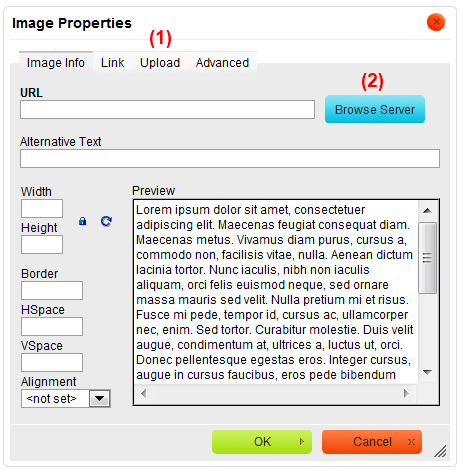
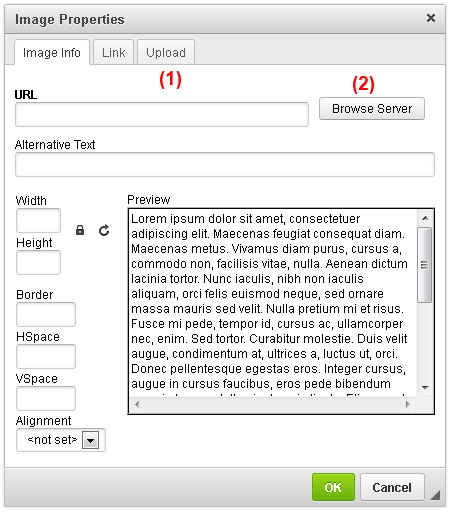
File Browser integration section corrected.
- Removed PHP API reference (CKEditor 3.x only).
- Corrected links to CKFinder docs that did not work.
- Corrected the whole article to make it more clear.
- Updated screenshots to CKEditor 4.x.

diff --git a/guides/dev/configuration/file_browse_upload/README.md b/guides/dev/configuration/file_browse_upload/README.md
@@ -1,7 +1,6 @@
-# Integrate with File Browser
+# File Browser Integration
 
-CKEditor can be easily integrated with an external file
-browser/uploader.
+CKEditor can be easily integrated with an external file browser/uploader.
 
 Once properly set up, all file browser features will automatically
 become available. This includes the **Upload** tab `(1)` in the **Link**,
@@ -12,15 +11,11 @@ become available. This includes the **Upload** tab `(1)` in the **Link**,
 
 ## Basic Configuration
 
- * The {@link CKEDITOR.config#filebrowserBrowseUrl filebrowserBrowseUrl} setting contains the location of an external file browser that should be
-launched when the **Browse Server** button is pressed.
+ * The {@link CKEDITOR.config#filebrowserBrowseUrl filebrowserBrowseUrl} setting contains the location of an external file browser that should be launched when the **Browse Server** button is pressed.
 
- * The {@link CKEDITOR.config#filebrowserUploadUrl filebrowserUploadUrl} setting contains the location of a script that handles file uploads. If
-set, the **Upload** tab will appear in some dialog windows — the ones
-where such functionality is available, i.e. **Link**, **Image** and
-**Flash Properties**.
+ * The {@link CKEDITOR.config#filebrowserUploadUrl filebrowserUploadUrl} setting contains the location of a script that handles file uploads. If set, the **Upload** tab will appear in some dialog windows &mdash; the ones where such functionality is available, i.e. **Link**, **Image** and **Flash Properties**.
 
-### Example 1
+### Example 1 &mdash; Adding File Browser Scripts
 
 The sample below shows basic configuration code that can be used to
 insert a CKEditor instance with the file browser configured.
@@ -30,14 +25,17 @@ insert a CKEditor instance with the file browser configured.
 		filebrowserUploadUrl: '/uploader/upload.php'
 	});
 
-### Example 2
 
-It is also possible to set a separate URL for a selected dialog window
-by using the dialog window name in file browser settings:
-`filebrowserBrowseUrl` and
-`filebrowserUploadUrl`.
+<p class="tip">
+	Please note that the names of the file browser and uploader scripts used in this guide are just an example and should be replaced with your custom scripts or the scripts coming from an external tool, like [http://cksource.com/ckfinder](CKFinder) or a third-party file manager.
+</p>
 
-For example to set a special upload URL for the image dialog window, use
+### Example 2 &mdash; Adding File Browser Scripts for Selected Dialog Windows
+
+It is also possible to set a separate URL for a selected dialog window (like **Image** or **Link**) by using the dialog window name in file browser settings:
+<code>filebrowser<i>[dialogWindowName]</i>BrowseUrl</code> and <code>filebrowser<i>[dialogWindowName]</i>UploadUrl</code>.
+
+For example to set a special upload URL for the **Image Properties** dialog window, use
 the {@link CKEDITOR.config#filebrowserImageUploadUrl filebrowserImageUploadUrl}
 property.
 
@@ -67,7 +65,7 @@ number (e.g. `"800"`). If you prefer to set the height and width of the
 window as a percentage value of the screen, do not forget to add the
 percent sign after the number (e.g. `"60%"`).
 
-### Example 3
+### Example 3 &mdash; Customizing File Browser Window Size
 
 The sample below shows basic configuration code that can be used to
 insert a CKEditor instance with the file browser paths and window size
@@ -80,15 +78,12 @@ configured.
 		filebrowserWindowHeight: '480'
 	});
 
-To set the window size of the file browser for a specific dialog window,
-use the `filebrowserWindowWidth` and
-`filebrowserWindowHeight` settings.
+To set the window size of the file browser for a specific dialog window (like **Image** or **Link**),
+use the <code>filebrowser<i>[dialogWindowName]</i>WindowWidth</code> and <code>filebrowser<i>[dialogWindowName]</i>WindowHeight</code> settings.
 
-For example, to change the file browser window size only in "Image"
-dialog box, change set the `filebrowserImageWindowWidth` and
-`filebrowserImageWindowHeight` settings.
+For example, to change the file browser window size only in the **Image Properties** dialog window, configure the `filebrowserImageWindowWidth` and `filebrowserImageWindowHeight` settings.
 
-### Example 4
+### Example 4 &mdash; Customizing File Browser Window Size for a Selected Dialog Window
 
 The sample below shows basic configuration code that can be used to
 insert a CKEditor instance with the file browser paths configured. It
@@ -104,16 +99,16 @@ when opened from the **Image Properties** dialog window.
 
 ## Using CKFinder
 
-CKEditor may easily be integrated with [CKFinder](http://ckfinder.com),
-an advanced Ajax file browser. For a live demonstration, see
-[here](http://ckfinder.com/demo).
+CKEditor may easily be integrated with [CKFinder](http://cksource.com/ckfinder),
+an advanced Ajax file manager. For a live demonstration, see 
+[the demo](http://cksource.com/ckfinder/demo#ckeditor).
 
 The integration may be conducted in two ways: by setting CKEditor
 configuration options (example below) or by using the
-[CKFinder.SetupCKEditor()]([http://docs.cksource.com/ckfinder_2.x_api/symbols/CKFinder.html#.setupCKEditor)
+[CKFinder.setupCKEditor()](http://docs.cksource.com/ckfinder_2.x_api/symbols/CKFinder.html#.setupCKEditor)
 method available in the [CKFinder API](http://docs.cksource.com/ckfinder_2.x_api/).
 
-### Example 5
+### Example 5 &mdash; CKFinder Integration
 
 The sample below shows the configuration code that can be used to insert
 a CKEditor instance with CKFinder integrated. The browse and upload
@@ -129,42 +124,35 @@ CKFinder default paths.
 		filebrowserFlashUploadUrl: '/ckfinder/core/connector/php/connector.php?command=QuickUpload&type=Flash'
 	});
 
-The example above is valid for PHP environment. Note that `/ckfinder/`
+The example above is valid for the PHP environment. Note that `/ckfinder/`
 is a base path to the CKFinder installation directory.
 
 If you are using CKFinder for ASP, ASP.NET, or ColdFusion, remember to
 change `php` above to the right extension:
 
-- asp – [CKFinder for ASP](CKFinder/Developers_Guide/ASP/CKEditor_Integration)
-- aspx – [CKFinder for ASP.NET](CKFinder/Developers_Guide/ASP.NET/CKEditor_Integration)
-- cfm – [CKFinder for ColdFusion](CKFinder/Developers_Guide/ColdFusion/CKEditor_Integration)
-- php – [CKFinder for PHP](CKFinder/Developers_Guide/PHP/CKEditor_Integration)
+- `asp` &ndash; [CKFinder for ASP](http://docs.cksource.com/CKFinder_2.x/Developers_Guide/ASP/CKEditor_Integration)
+- `aspx` &ndash; [CKFinder for ASP.NET](http://docs.cksource.com/CKFinder_2.x/Developers_Guide/ASP.NET/CKEditor_Integration)
+- `cfm` &ndash; [CKFinder for ColdFusion](http://docs.cksource.com/CKFinder_2.x/Developers_Guide/ColdFusion/CKEditor_Integration)
+- `php` &ndash; [CKFinder for PHP](http://docs.cksource.com/CKFinder_2.x/Developers_Guide/PHP/CKEditor_Integration)
+- `java` &ndash; [CKFinder for Java](http://docs.cksource.com/CKFinder_2.x/Developers_Guide/Java/CKEditor_Integration)
 
-### Example 6
+### Example 6 &mdash; CKFinder Integration using CKFinder.setupCKEditor()
 
-The sample below shows the use of the `CKFinder.SetupCKEditor()` to
+The sample below shows the use of the [CKFinder.setupCKEditor()](http://docs.cksource.com/ckfinder_2.x_api/symbols/CKFinder.html#.setupCKEditor) method to
 insert a CKEditor instance with CKFinder integrated.
 
 	var editor = CKEDITOR.replace( 'editor1' );
-	CKFinder.SetupCKEditor( editor, '/ckfinder/' );
+	CKFinder.setupCKEditor( editor, '/ckfinder/' );
 
-The second parameter of the `SetupCKEditor()` method is the path to the
+The second parameter of the `setupCKEditor()` method is the path to the
 CKFinder installation.
 
-Please check the `_samples/js/ckeditor.html` sample distributed with
+Please check the `_samples/ckeditor.html` sample distributed with
 CKFinder to see the full working example of this integration method.
 
 {@img ckeditor_with_ckfinder.png CKFinder integrated with CKEditor}
 
-### PHP API
-
-As of CKFinder 1.4.2 and CKEditor 3.1 it is possible to integrate
-CKFinder with CKEditor using the PHP API.
-
-See [CKFinder for PHP](http://docs.cksource.com/CKFinder_2.x/Developers_Guide/PHP/CKEditor_Integration#PHP)
-documentation for more details.
-
-## Other Resources
+## Further Reading
 
 For more advanced information on integrating CKEditor with a file
 browser refer to the following articles:
